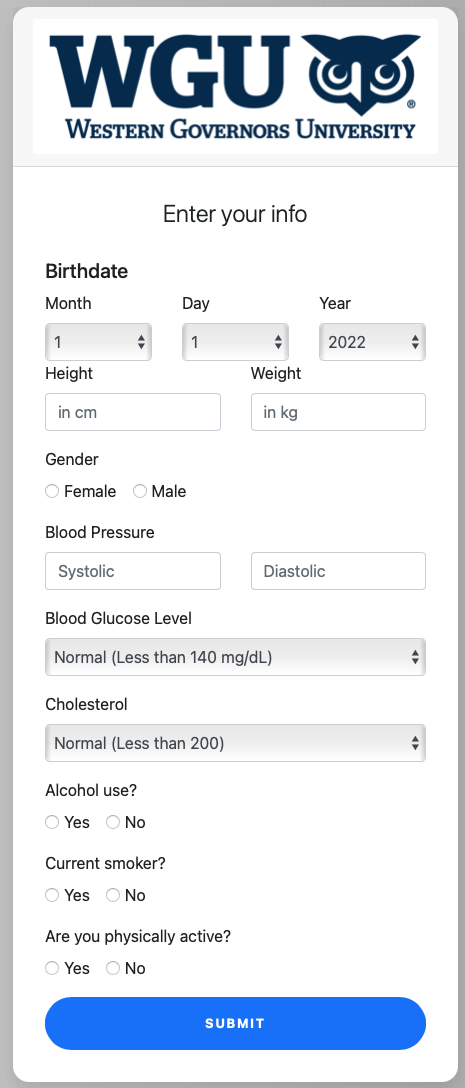
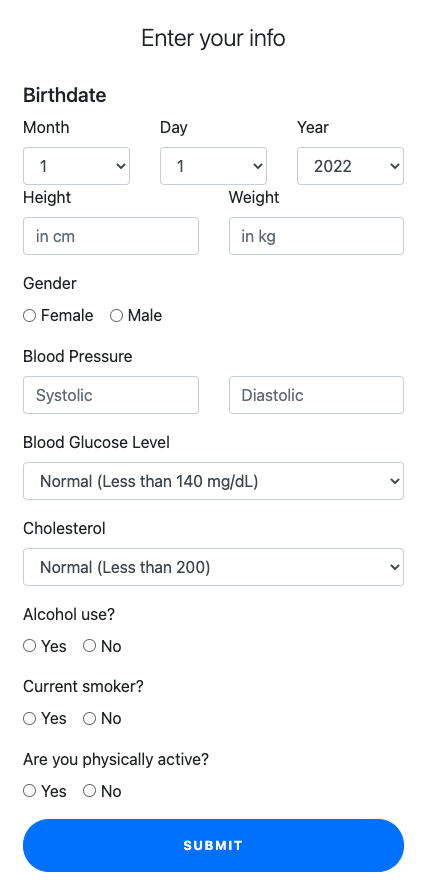
new ml app images

diff --git a/src/views/PythonPage.js b/src/views/PythonPage.js
@@ -44,16 +44,19 @@ const useStyles = makeStyles((theme) => ({
     paddingBottom: theme.spacing(2)
   },
   login_image: {
-    height: '20rem',
-    width: '20rem'
+    // height: '15rem',
+    // width: '20rem'
+    transform: 'scale(0.8)'
   },
   vitals_image: {
-    height: '50rem',
-    width: '20rem'
+    // height: '50rem',
+    // width: '20rem'
+    transform: 'scale(0.8)'
   },
   results_image: {
-    height: '35rem',
-    width: '20rem'
+    // height: '35rem',
+    // width: '20rem'
+    transform: 'scale(0.8)'
   },
   flex_center: {
     display: 'flex',

diff --git a/src/components/Navbar.js b/src/components/Navbar.js
@@ -15,7 +15,8 @@ const useStyles = makeStyles((theme) => ({
     display: 'flex',
     alignItems: 'flex-end',
     flexGrow: 1,
-    background: 'transparent'
+    background: 'none',
+    boxShadow: 'none'
   },
   menuButton: {
     marginRight: theme.spacing(2)
